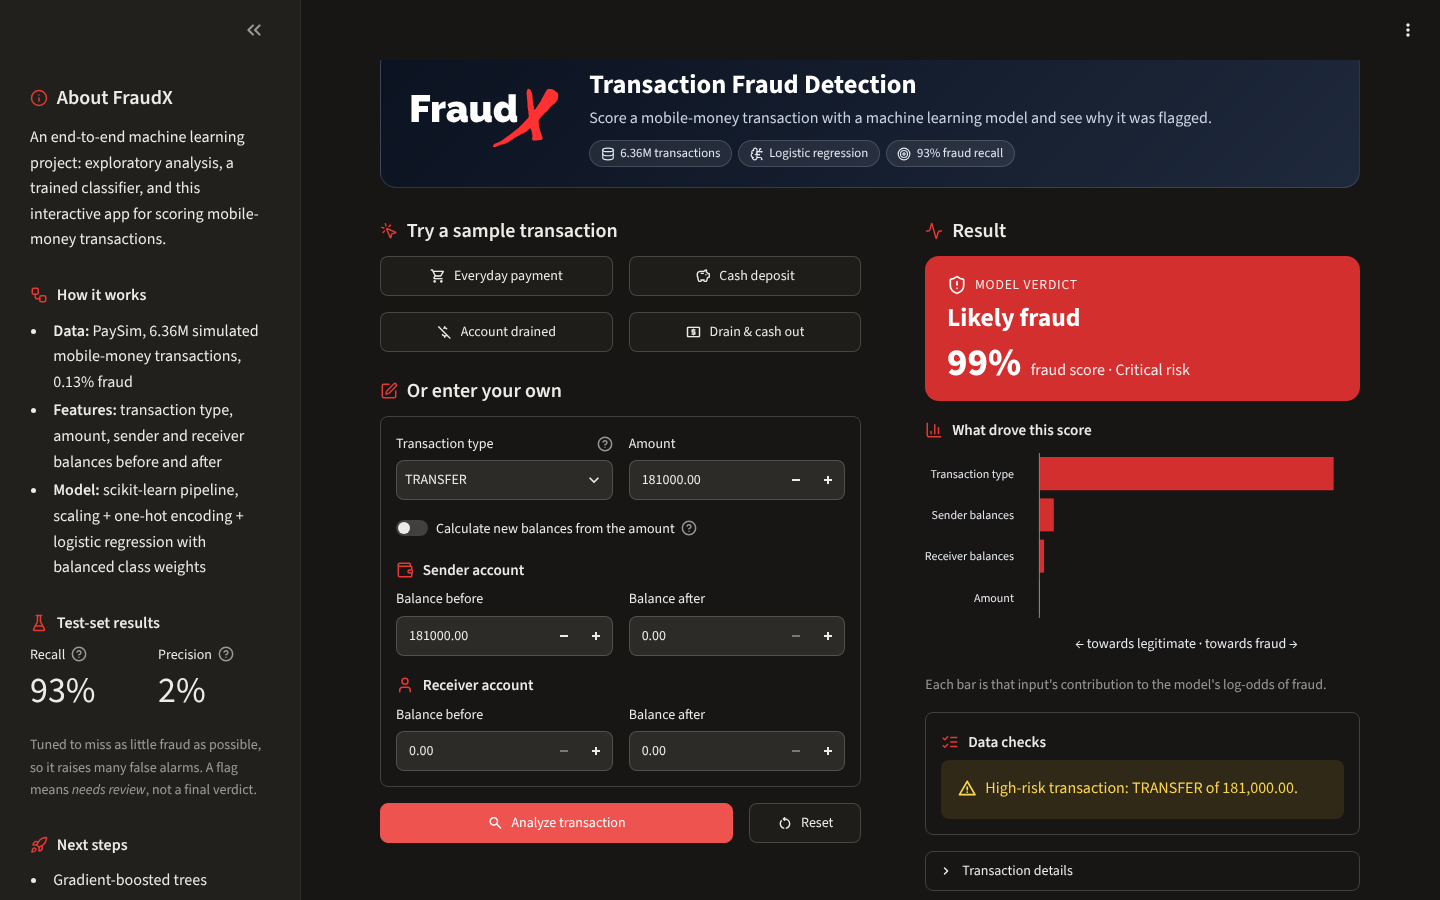
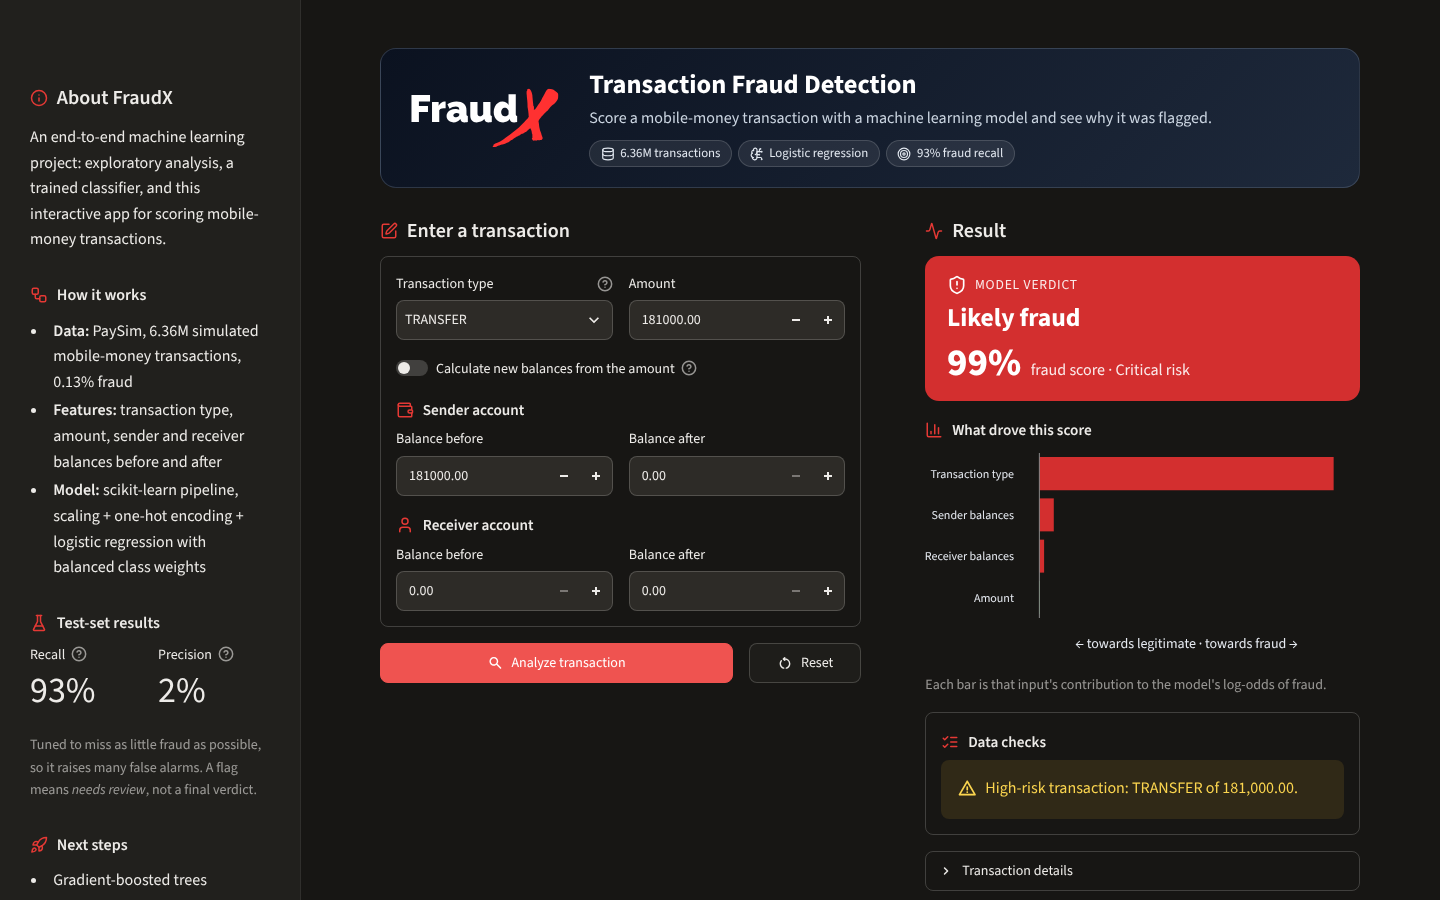
Remove sample transactions from the app and re-record the demo GIF
- Drop the one-click sample buttons; the form is now "Enter a transaction"
- Tests enter the same four transactions by hand instead of via samples
- New README GIF recorded without the sidebar (also 1.6 MB -> 560 KB)
- Retake the light and dark screenshots so they no longer show samples

diff --git a/fraud_detection.py b/fraud_detection.py
@@ -54,35 +54,6 @@ RESET_VALUES = {
     "result": None,
 }
 
-# One-click samples. Values are realistic for the PaySim data; the comments
-# give the model's verdict so the labels stay honest.
-PRESETS = {
-    "everyday_payment": {
-        "label": "Everyday payment",
-        "icon": ":material/shopping_cart:",
-        "help": "A shopper pays a merchant 4,500 from a 32,000 balance.",
-        "values": ("PAYMENT", 4500.0, 32000.0, 27500.0, 0.0, 0.0),  # legitimate
-    },
-    "cash_deposit": {
-        "label": "Cash deposit",
-        "icon": ":material/savings:",
-        "help": "A customer deposits 20,000 in cash at an agent.",
-        "values": ("CASH_IN", 20000.0, 5000.0, 25000.0, 60000.0, 40000.0),  # legitimate
-    },
-    "drained_transfer": {
-        "label": "Account drained",
-        "icon": ":material/money_off:",
-        "help": "The full 181,000 balance is transferred out, leaving the account empty.",
-        "values": ("TRANSFER", 181000.0, 181000.0, 0.0, 0.0, 0.0),  # fraud
-    },
-    "drain_and_cash_out": {
-        "label": "Drain & cash out",
-        "icon": ":material/local_atm:",
-        "help": "An entire 350,000 balance is cashed out in one go.",
-        "values": ("CASH_OUT", 350000.0, 350000.0, 0.0, 12000.0, 362000.0),  # fraud
-    },
-}
-
 FEATURE_GROUPS = {
     "Transaction type": lambda name: name.startswith("cat__type_"),
     "Amount": lambda name: name == "num__amount",
@@ -134,14 +105,6 @@ for key, value in DEFAULTS.items():
 # ==================== CALLBACKS ====================
 # Callbacks run before widgets are re-created, the only point where
 # widget-backed session state may be changed.
-def load_preset(preset_id):
-    values = PRESETS[preset_id]["values"]
-    for key, value in zip(INPUT_KEYS, values):
-        st.session_state[key] = value
-    st.session_state.auto_balances = False  # keep the sample's exact balances
-    st.session_state.result = analyze(*values)
-
-
 def reset_inputs():
     for key, value in RESET_VALUES.items():
         st.session_state[key] = value
@@ -321,16 +284,7 @@ form_col, result_col = st.columns([1.1, 1], gap="large")
 
 # ==================== LEFT: INPUT ====================
 with form_col:
-    heading("mouse-pointer-click", "Try a sample transaction")
-    preset_items = list(PRESETS.items())
-    for row_start in range(0, len(preset_items), 2):  # row by row, so phones keep the order
-        for col, (preset_id, preset) in zip(st.columns(2), preset_items[row_start:row_start + 2]):
-            col.button(
-                preset["label"], icon=preset["icon"], key=f"preset_{preset_id}", help=preset["help"],
-                on_click=load_preset, args=(preset_id,), width="stretch",
-            )
-
-    heading("square-pen", "Or enter your own")
+    heading("square-pen", "Enter a transaction")
     with st.container(border=True):
         c1, c2 = st.columns(2)
         transaction_type = c1.selectbox("Transaction type", TRANSACTION_TYPES, key="transaction_type", help=TYPE_HELP)
@@ -368,7 +322,7 @@ with result_col:
     result = st.session_state.result
 
     if result is None:
-        st.info("Pick a sample transaction, or enter your own and click **Analyze transaction**.", icon=":material/touch_app:")
+        st.info("Enter a transaction and click **Analyze transaction**.", icon=":material/touch_app:")
     elif result["inputs"] != current_inputs:
         st.info("The inputs have changed. Click **Analyze transaction** to update the result.", icon=":material/refresh:")
     elif result["errors"]:

diff --git a/tests/test_app.py b/tests/test_app.py
@@ -10,34 +10,51 @@ def new_app():
     return AppTest.from_file(APP, default_timeout=60).run()
 
 
-def click(at, label=None, key=None):
-    button = at.button(key) if key else next(b for b in at.button if b.label == label)
-    button.click().run()
+def click(at, label):
+    next(b for b in at.button if b.label == label).click().run()
 
 
 def verdict_html(at):
     return " ".join(m.value for m in at.markdown if "fx-verdict" in m.value and "<div" in m.value)
 
 
+def enter(at, transaction_type, amount, old_orig, new_orig, old_dest, new_dest):
+    """Fill the form by hand, with the new balances typed in rather than auto-calculated."""
+    at.toggle(key="auto_balances").set_value(False).run()
+    at.selectbox(key="transaction_type").set_value(transaction_type)
+    for key, value in zip(
+        ["amount", "oldbalanceOrg", "newBalanceOrig", "oldBalanceDest", "newBalanceDest"],
+        [amount, old_orig, new_orig, old_dest, new_dest],
+    ):
+        at.number_input(key=key).set_value(value)
+    at.run()
+
+
 def test_app_loads_without_errors():
     at = new_app()
     assert not at.exception
     assert not at.warning
-    assert "Pick a sample transaction" in at.info[0].value
+    assert "Enter a transaction" in at.info[0].value
+
+
+def test_no_sample_buttons():
+    at = new_app()
+    assert [b.label for b in at.button] == ["Analyze transaction", "Reset"]
 
 
 @pytest.mark.parametrize(
-    "preset, expected",
+    "transaction, expected",
     [
-        ("everyday_payment", "Looks legitimate"),
-        ("cash_deposit", "Looks legitimate"),
-        ("drained_transfer", "Likely fraud"),
-        ("drain_and_cash_out", "Likely fraud"),
+        (("PAYMENT", 4500.0, 32000.0, 27500.0, 0.0, 0.0), "Looks legitimate"),
+        (("CASH_IN", 20000.0, 5000.0, 25000.0, 60000.0, 40000.0), "Looks legitimate"),
+        (("TRANSFER", 181000.0, 181000.0, 0.0, 0.0, 0.0), "Likely fraud"),
+        (("CASH_OUT", 350000.0, 350000.0, 0.0, 12000.0, 362000.0), "Likely fraud"),
     ],
 )
-def test_presets_load_and_show_expected_verdict(preset, expected):
+def test_entered_transactions_show_expected_verdict(transaction, expected):
     at = new_app()
-    click(at, key=f"preset_{preset}")
+    enter(at, *transaction)
+    click(at, "Analyze transaction")
     assert not at.exception
     assert expected in verdict_html(at)
 
@@ -63,7 +80,9 @@ def test_analyze_then_edit_marks_result_stale():
 
 def test_reset_clears_inputs_and_results():
     at = new_app()
-    click(at, key="preset_drained_transfer")
+    enter(at, "TRANSFER", 181000.0, 181000.0, 0.0, 0.0, 0.0)
+    click(at, "Analyze transaction")
+    assert "Likely fraud" in verdict_html(at)
     click(at, "Reset")
     assert not at.exception
     assert at.number_input(key="amount").value == 0.0

diff --git a/icons.py b/icons.py
@@ -10,7 +10,6 @@ ICONS = {
     "database": '<ellipse cx="12" cy="5" rx="9" ry="3" /> <path d="M3 5V19A9 3 0 0 0 21 19V5" /> <path d="M3 12A9 3 0 0 0 21 12" />',
     "brain-circuit": '<path d="M12 5a3 3 0 1 0-5.997.125 4 4 0 0 0-2.526 5.77 4 4 0 0 0 .556 6.588A4 4 0 1 0 12 18Z" /> <path d="M9 13a4.5 4.5 0 0 0 3-4" /> <path d="M6.003 5.125A3 3 0 0 0 6.401 6.5" /> <path d="M3.477 10.896a4 4 0 0 1 .585-.396" /> <path d="M6 18a4 4 0 0 1-1.967-.516" /> <path d="M12 13h4" /> <path d="M12 18h6a2 2 0 0 1 2 2v1" /> <path d="M12 8h8" /> <path d="M16 8V5a2 2 0 0 1 2-2" /> <circle cx="16" cy="13" r=".5" /> <circle cx="18" cy="3" r=".5" /> <circle cx="20" cy="21" r=".5" /> <circle cx="20" cy="8" r=".5" />',
     "target": '<circle cx="12" cy="12" r="10" /> <circle cx="12" cy="12" r="6" /> <circle cx="12" cy="12" r="2" />',
-    "mouse-pointer-click": '<path d="M14 4.1 12 6" /> <path d="m5.1 8-2.9-.8" /> <path d="m6 12-1.9 2" /> <path d="M7.2 2.2 8 5.1" /> <path d="M9.037 9.69a.498.498 0 0 1 .653-.653l11 4.5a.5.5 0 0 1-.074.949l-4.349 1.041a1 1 0 0 0-.74.739l-1.04 4.35a.5.5 0 0 1-.95.074z" />',
     "square-pen": '<path d="M12 3H5a2 2 0 0 0-2 2v14a2 2 0 0 0 2 2h14a2 2 0 0 0 2-2v-7" /> <path d="M18.375 2.625a1 1 0 0 1 3 3l-9.013 9.014a2 2 0 0 1-.853.505l-2.873.84a.5.5 0 0 1-.62-.62l.84-2.873a2 2 0 0 1 .506-.852z" />',
     "activity": '<path d="M22 12h-2.48a2 2 0 0 0-1.93 1.46l-2.35 8.36a.25.25 0 0 1-.48 0L9.24 2.18a.25.25 0 0 0-.48 0l-2.35 8.36A2 2 0 0 1 4.49 12H2" />',
     "chart-column": '<path d="M3 3v16a2 2 0 0 0 2 2h16" /> <path d="M18 17V9" /> <path d="M13 17V5" /> <path d="M8 17v-3" />',

diff --git a/README.md b/README.md
@@ -20,14 +20,14 @@
 </p>
 
 <p align="center">
-  <img src="docs/images/app.gif" alt="Scoring the sample transactions in FraudX" width="90%">
+  <img src="docs/images/app.gif" alt="Scoring a legitimate payment and a fraudulent transfer in FraudX" width="90%">
 </p>
 
 ## Highlights
 
 | | |
 |---|---|
-| **One-click samples** | Everyday payment, cash deposit, and two typical fraud patterns, each loaded and scored instantly |
+| **Simple input** | Enter a transaction type, amount and balances; new balances can be calculated from the amount automatically |
 | **Explainable verdicts** | A chart of what pushed the score towards fraud or legitimate, taken directly from the model's weights |
 | **Data checks** | Balances that don't add up are flagged, but still scored, because in this data they are a fraud signal |
 | **Light and dark mode** | Follows the visitor's system theme, with a switcher in the menu |
@@ -42,7 +42,7 @@ flowchart LR
     C --> D["Pipeline<br/>StandardScaler + OneHotEncoder<br/>+ LogisticRegression"]
     D --> E[/"fraud_detection_model.pkl"/]
     E --> F["Streamlit app<br/>fraud_detection.py"]
-    G["Visitor input<br/>or a sample"] --> H{"validation.py<br/>data checks"}
+    G["Visitor input"] --> H{"validation.py<br/>data checks"}
     H -- "errors" --> I["Shown, not scored"]
     H -- "ok or warnings" --> F
     F --> J["Verdict, fraud score<br/>and score drivers"]
@@ -197,7 +197,7 @@ pip install -r requirements-dev.txt
 pytest
 ```
 
-The suite covers the validation rules and drives the app headlessly with Streamlit's `AppTest`: each sample gives its expected verdict, balances auto-calculate, results go stale when inputs change, Reset clears everything, and a zero amount is blocked.
+The suite covers the validation rules and drives the app headlessly with Streamlit's `AppTest`: typical legitimate and fraudulent transactions give the expected verdict, balances auto-calculate, results go stale when inputs change, Reset clears everything, and a zero amount is blocked.
 
 </details>
 
